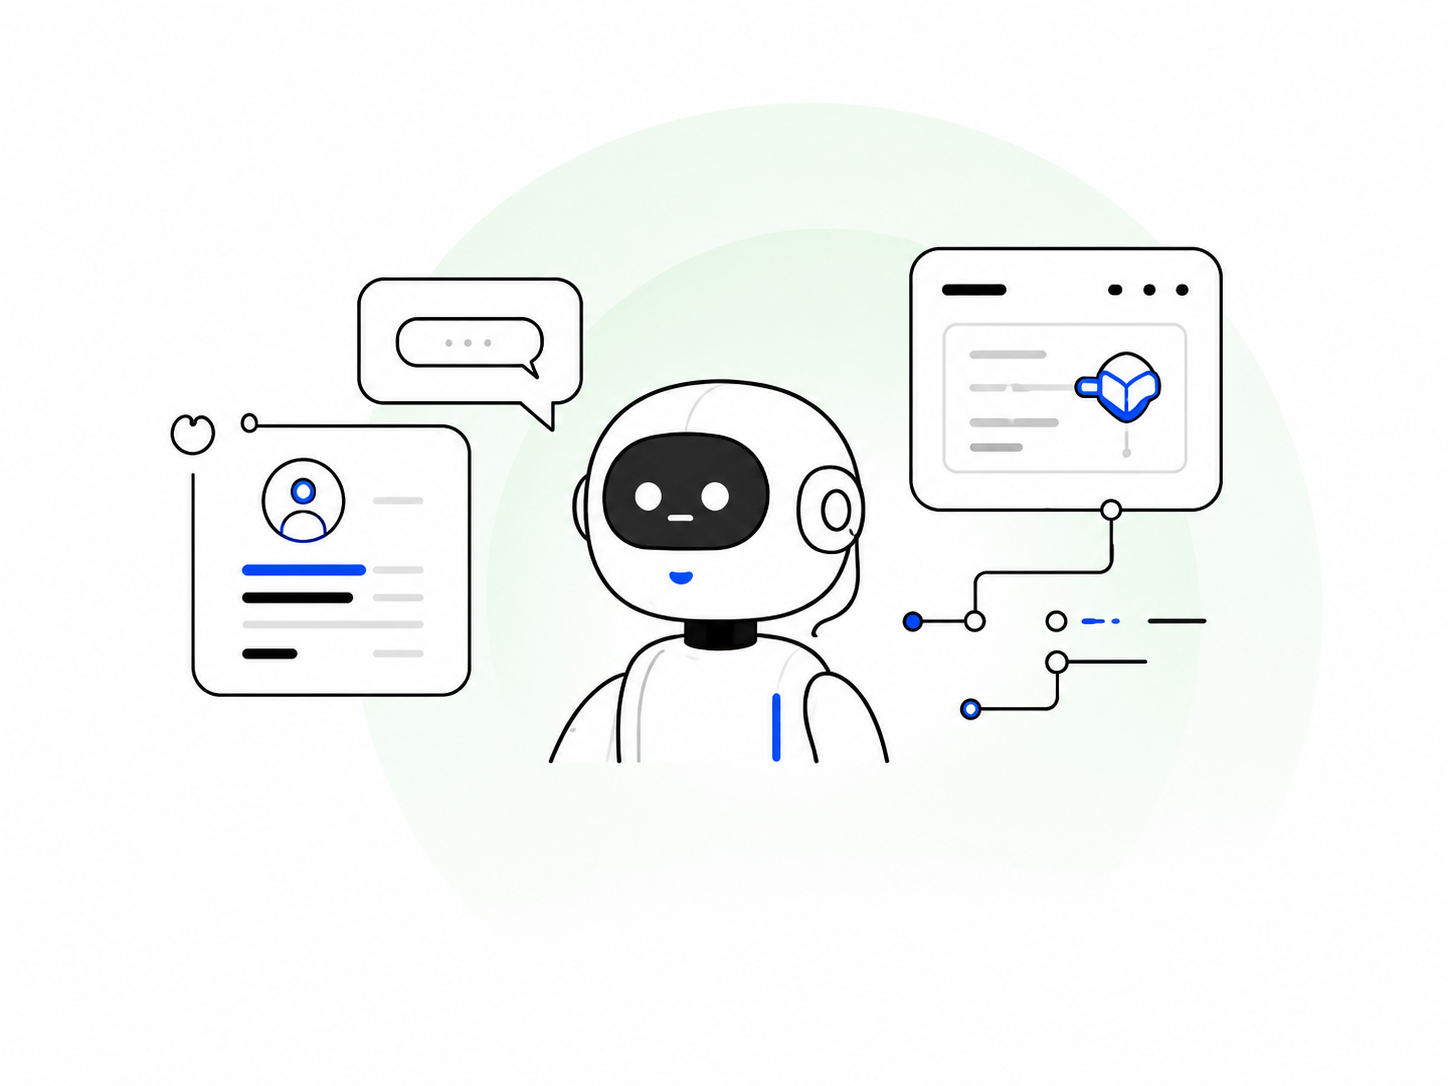
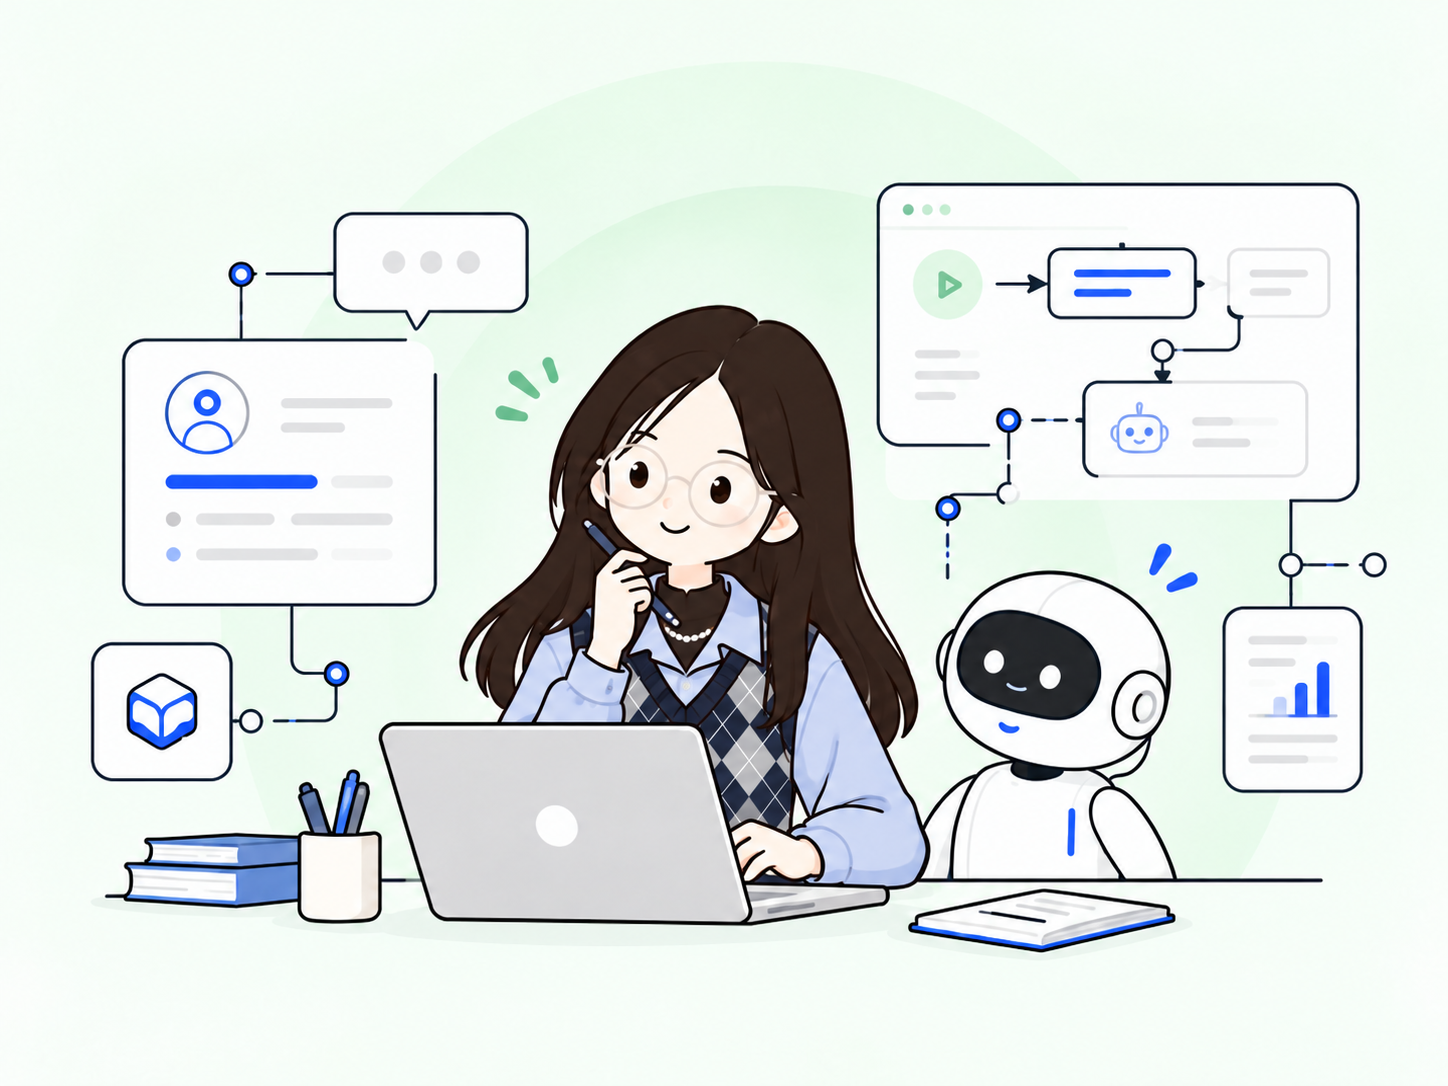
Replace portfolio hero illustrations

Changed region(s): [[0.0622, 0.1519, 0.9634, 0.8812]]

diff --git a/components/practice-cases/PracticeCasesPage.tsx b/components/practice-cases/PracticeCasesPage.tsx
@@ -1,6 +1,7 @@
+import Image from "next/image";
 import ZeroToOneHeader from "@/components/zero-to-one/ZeroToOneHeader";
 import { catalogPracticeCases, featuredPracticeCase } from "@/content/practice-cases/cases";
-import CaseArtwork from "./CaseArtwork";
+import featuredPracticeCaseIllustration from "@/public/practice-cases/featured-ai-evaluation.png";
 import PracticeCaseCatalog from "./PracticeCaseCatalog";
 import styles from "./practice-cases.module.css";
 
@@ -22,7 +23,16 @@ export default function PracticeCasesPage() {
         {featuredPracticeCase && <>
           <div className={styles.featureLabel}>本期推荐</div>
           <section className={styles.feature} aria-label="本期推荐">
-            <div className={styles.featureArt}><CaseArtwork kind={featuredPracticeCase.artwork} variant="feature" /></div>
+            <div className={styles.featureArt}>
+              <Image
+                className={styles.featureImage}
+                src={featuredPracticeCaseIllustration}
+                alt="蓝图风格的 AI 产品评测流程插图"
+                fill
+                priority
+                sizes="(max-width: 820px) 100vw, 46vw"
+              />
+            </div>
             <div className={styles.featureCopy}>
               <p className={styles.issue}><span aria-hidden="true" />编辑精选 · {featuredPracticeCase.tags[0]}</p>
               <h2>{featuredPracticeCase.title}</h2>

diff --git a/components/practice-cases/practice-cases.module.css b/components/practice-cases/practice-cases.module.css
@@ -20,6 +20,8 @@
 .feature { display: grid; grid-template-columns: 46% 54%; min-height: 426px; border: 1px solid #d8e0da; background: #fff; box-shadow: 12px 12px 0 #e3ece5; }
 .featureArt, .caseArt { position: relative; overflow: hidden; display: block; background: #1236a2; }
 .featureArt { min-height: 426px; }
+.featureArt::before { display: none; }
+.featureImage { object-fit: cover; }
 .featureArt::before, .caseArt::before { position: absolute; inset: 0; background-image: linear-gradient(#ffffff19 1px, transparent 1px), linear-gradient(90deg, #ffffff19 1px, transparent 1px); background-size: 34px 34px; content: ""; }
 .featureArt svg { position: absolute; inset: 0; width: 100%; height: 100%; }
 .featureCopy { display: flex; flex-direction: column; padding: 42px clamp(28px, 4vw, 60px) 38px; }
